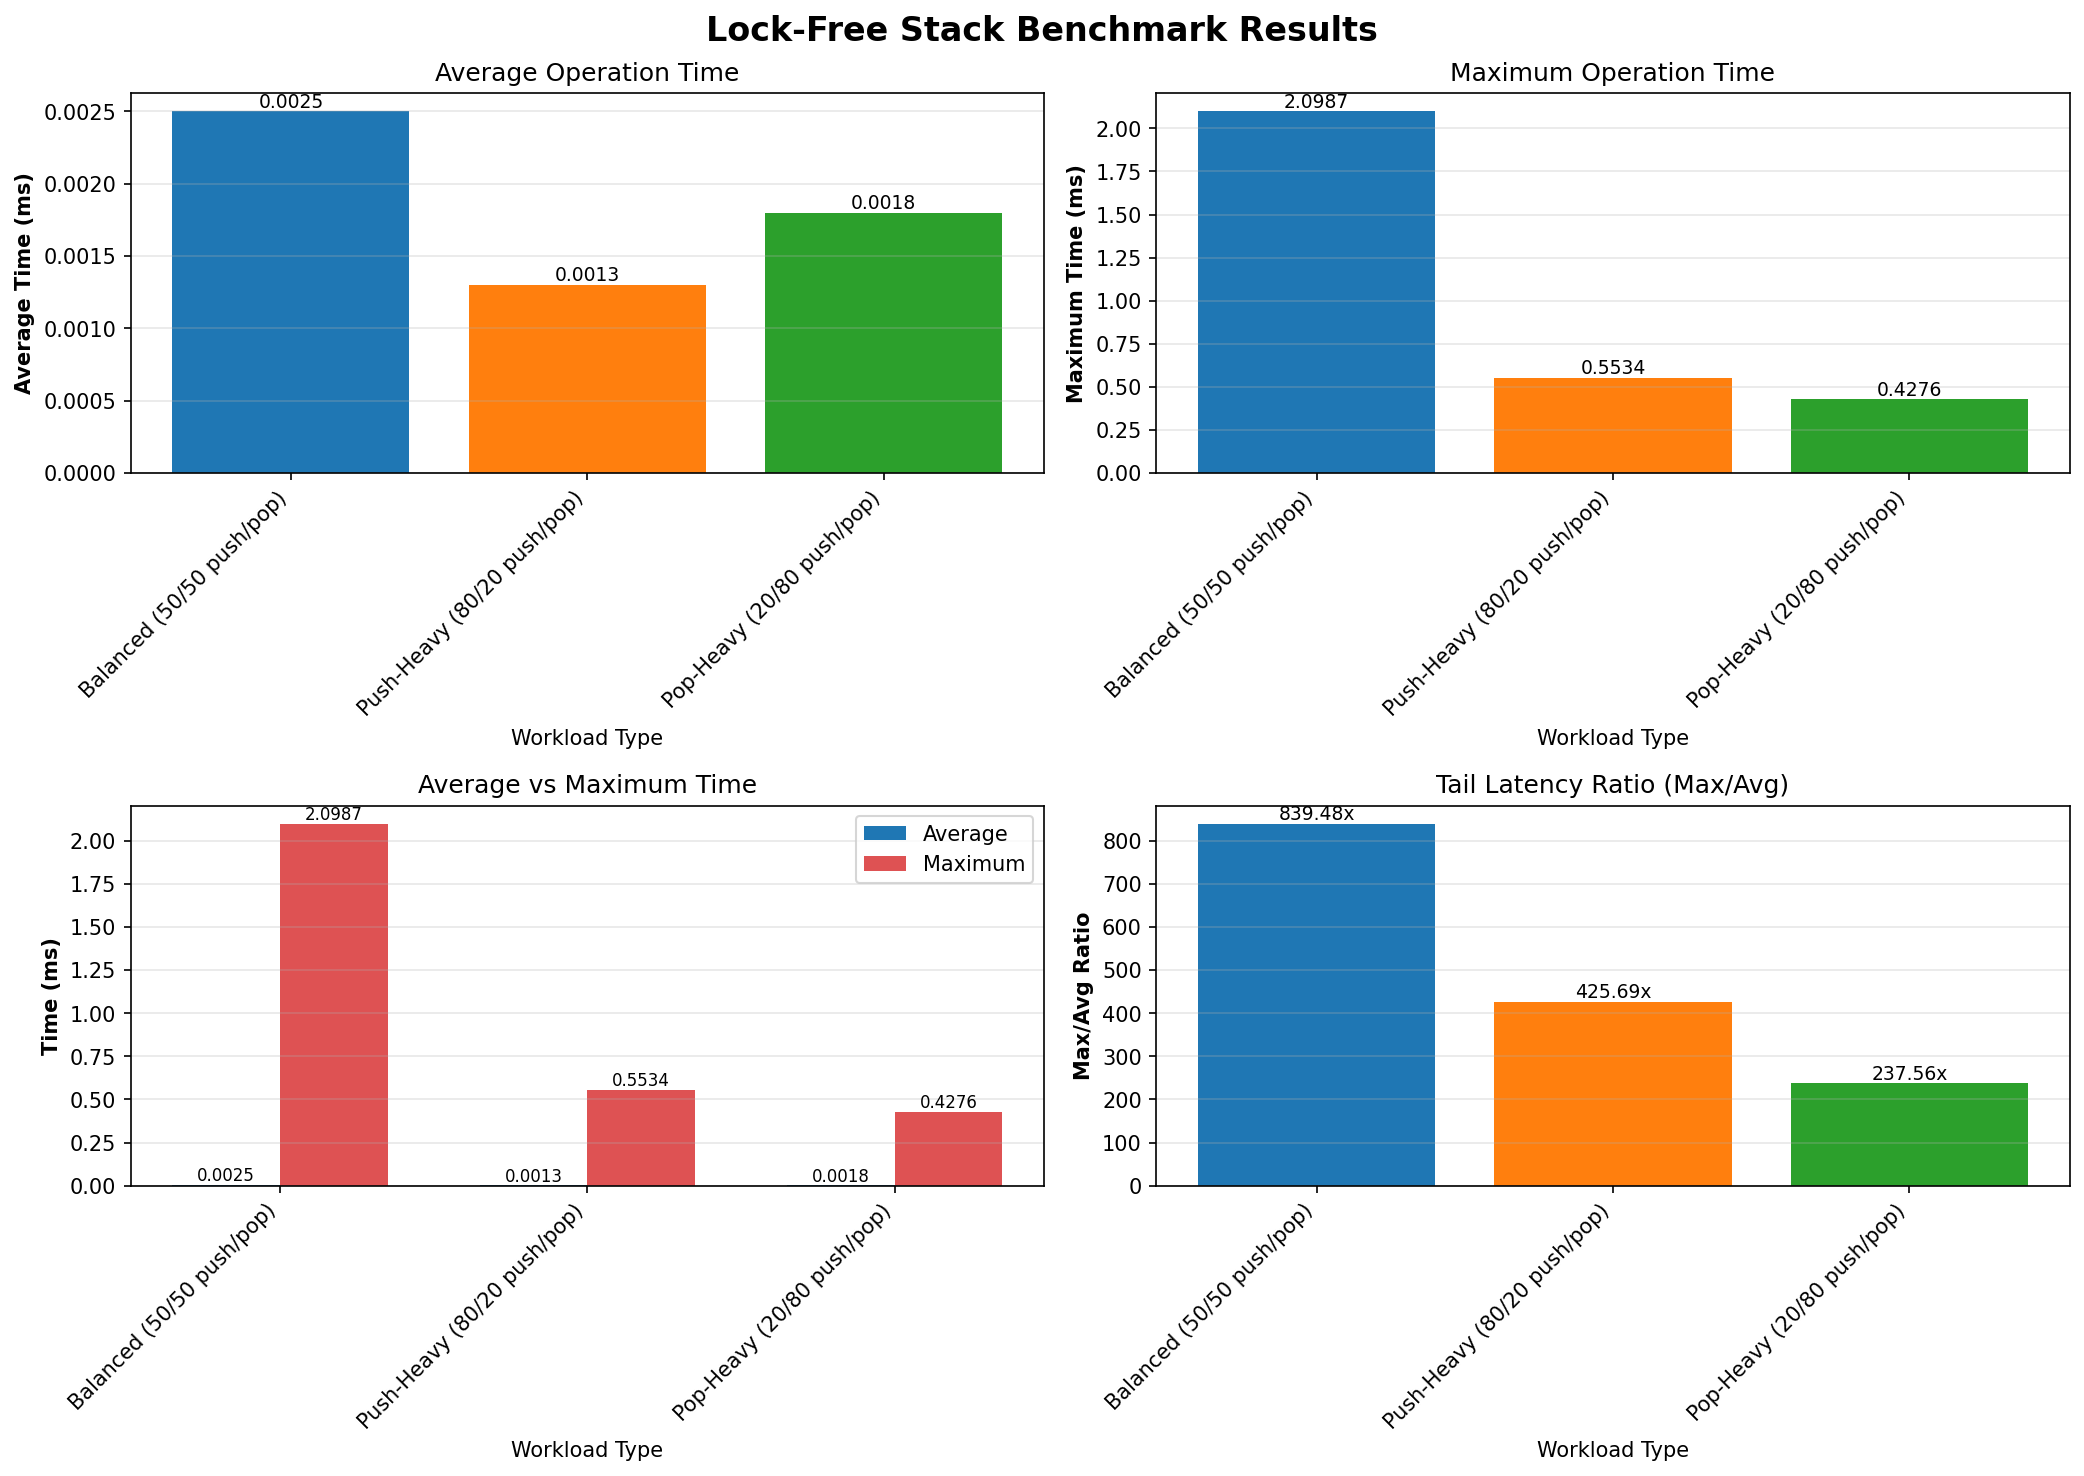
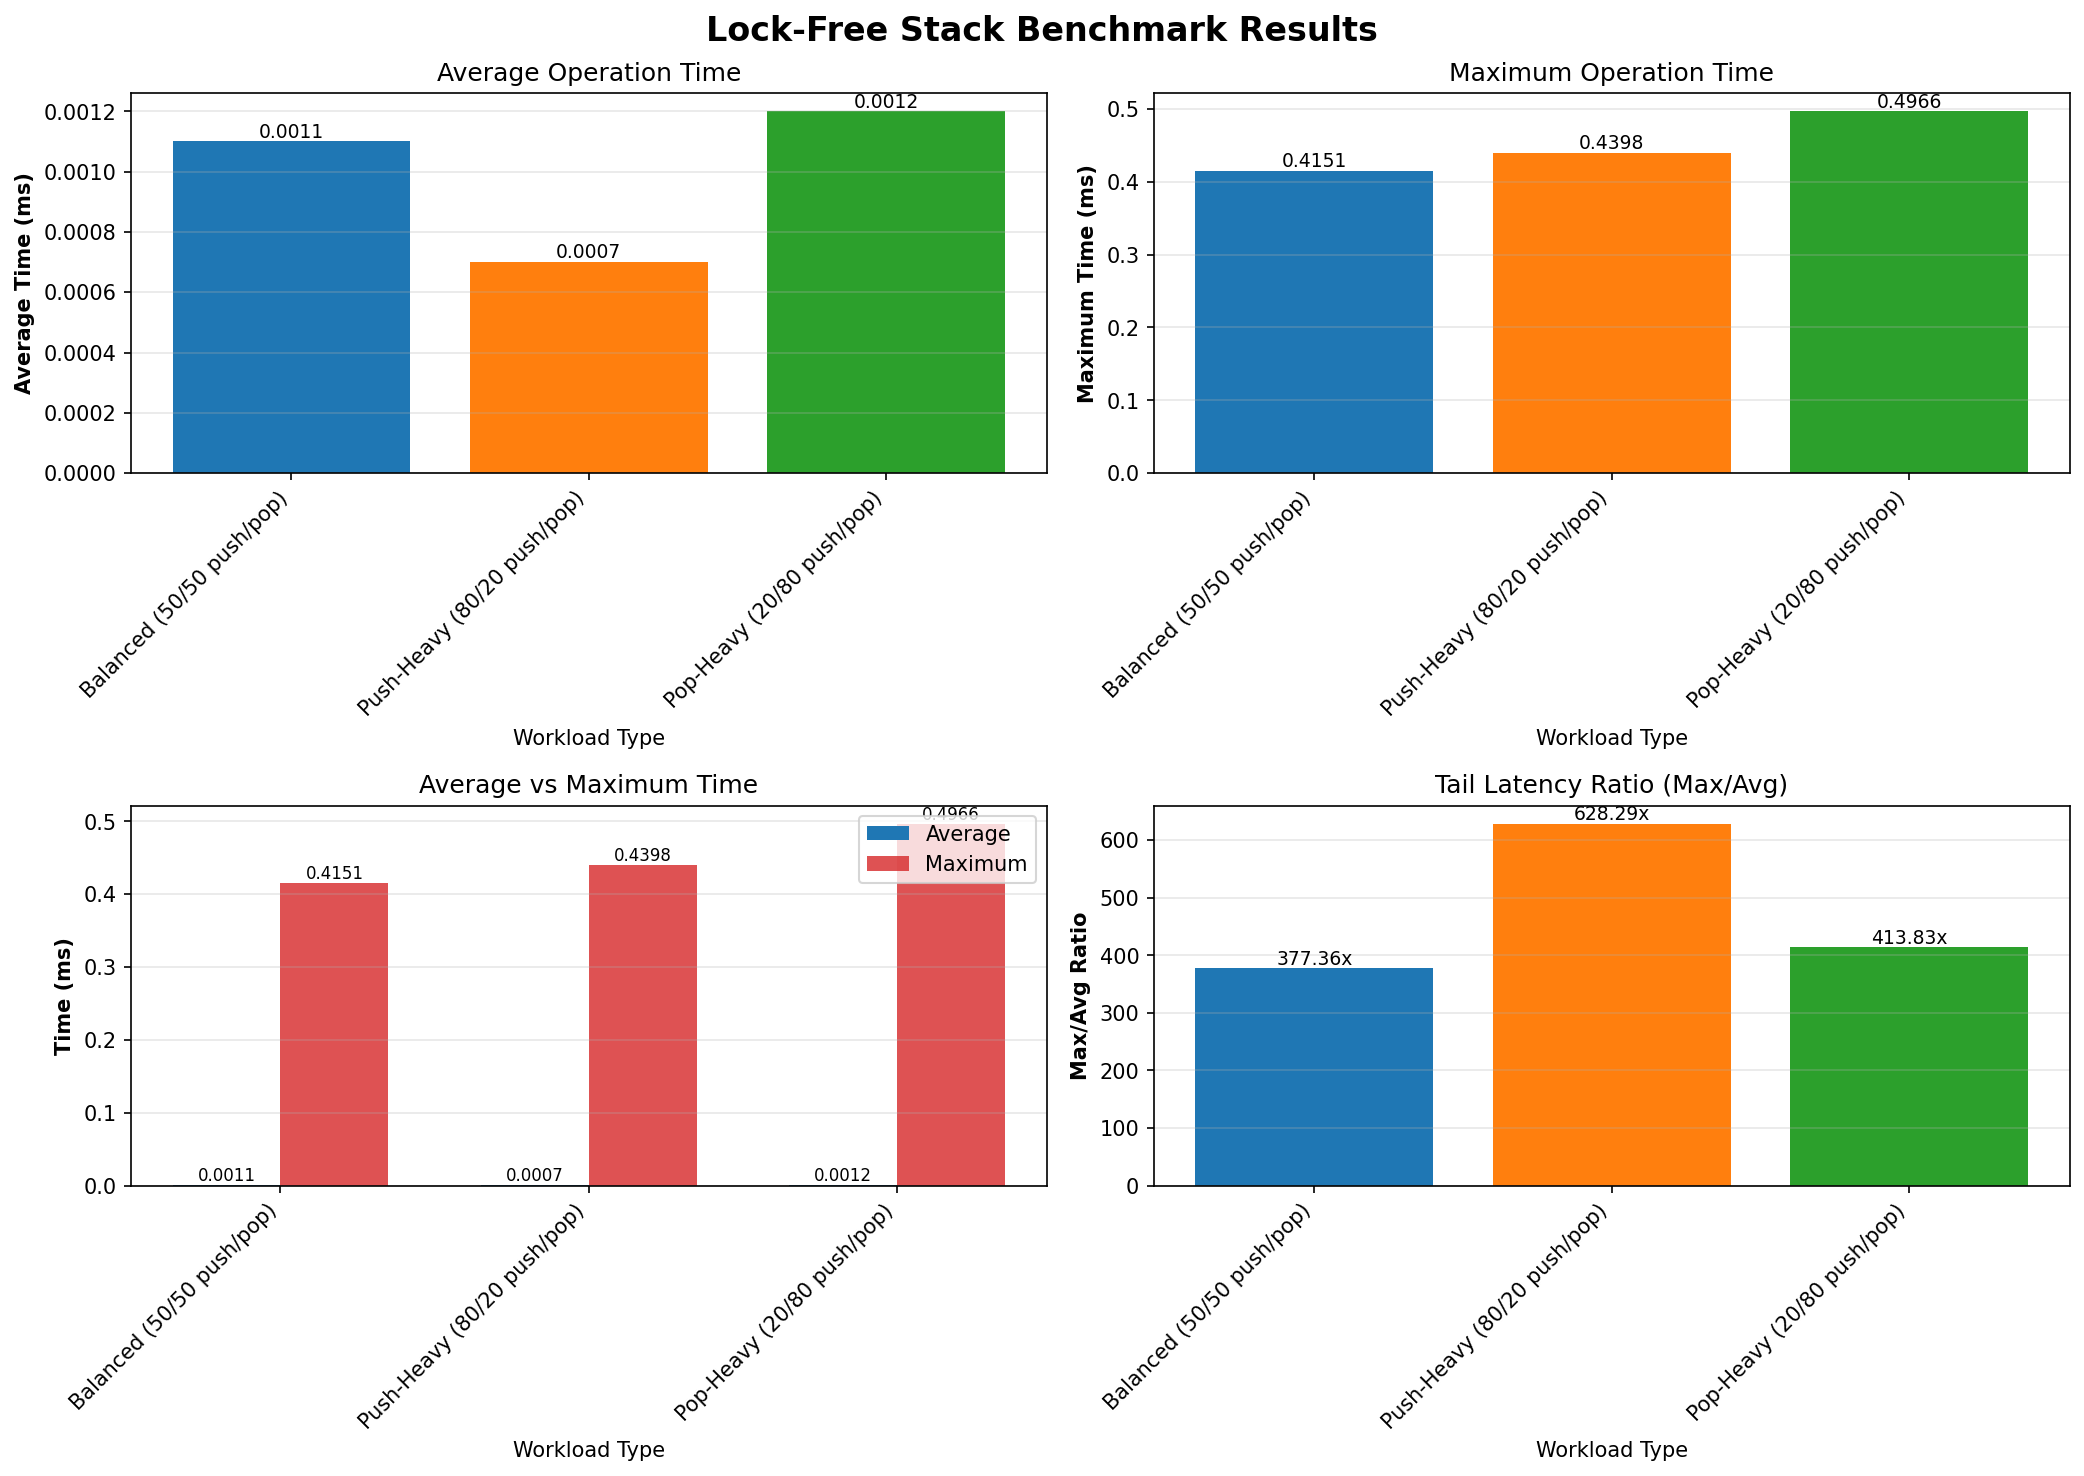
add exponential backoff in push/pop stack ops

diff --git a/lock_free_stack/include/stack.hpp b/lock_free_stack/include/stack.hpp
@@ -1,11 +1,33 @@
 #pragma once
 
 #include <atomic>
+#include <chrono>
 #include <functional>
 #include <iostream>
 #include <memory>
+#include <random>
+#include <thread>
 
 #include "hp.hpp"
+
+// Exponential backoff with random jitter
+inline void exponential_backoff(int attempt)
+{
+    if (attempt == 0)
+        return;
+
+    int max_delay_ns = std::min(1 << attempt, 100) * 10;
+
+    static thread_local std::mt19937 gen(std::random_device{}());
+    std::uniform_int_distribution<> dis(0, max_delay_ns);
+    int delay_ns = dis(gen);
+
+    auto start = std::chrono::high_resolution_clock::now();
+    while (std::chrono::high_resolution_clock::now() - start < std::chrono::nanoseconds(delay_ns))
+    {
+        asm volatile("pause");
+    }
+}
 
 struct data_to_reclaim_base
 {
@@ -72,19 +94,23 @@ template <typename T> class LFStack
     {
         Node *new_node = new Node(data);
         new_node->m_next = m_head.load(std::memory_order_relaxed);
+        int attempts = 0;
         while (!m_head.compare_exchange_weak(new_node->m_next, new_node, std::memory_order_release,
                                              std::memory_order_relaxed))
-            ;
+        {
+            exponential_backoff(attempts);
+            attempts = (attempts < 10) ? attempts + 1 : 10; // up to 10
+        }
     }
 
     std::shared_ptr<T> pop(void)
     {
         std::atomic<void *> &hp = get_hazard_pointer_for_current_thread();
-
-        // acquire/release with CAS loop
         Node *old_head = m_head.load(std::memory_order_acquire);
         Node *temp = nullptr;
-        do
+        int attempts = 0;
+
+        while (true)
         {
             do
             {
@@ -92,8 +118,20 @@ template <typename T> class LFStack
                 hp.store(old_head);
                 old_head = m_head.load(std::memory_order_relaxed);
             } while (old_head != temp);
-        } while (old_head && !m_head.compare_exchange_strong(old_head, old_head->m_next, std::memory_order_release,
-                                                             std::memory_order_relaxed));
+
+            if (!old_head)
+                break;
+
+            if (m_head.compare_exchange_strong(old_head, old_head->m_next, std::memory_order_release,
+                                               std::memory_order_relaxed))
+                break;
+
+            // apply backoff only if already failed to change head
+            exponential_backoff(attempts);
+            attempts = (attempts < 10) ? attempts + 1 : 10;
+            old_head = m_head.load(std::memory_order_acquire);
+        }
+
         hp.store(nullptr);
 
         std::shared_ptr<T> res;
